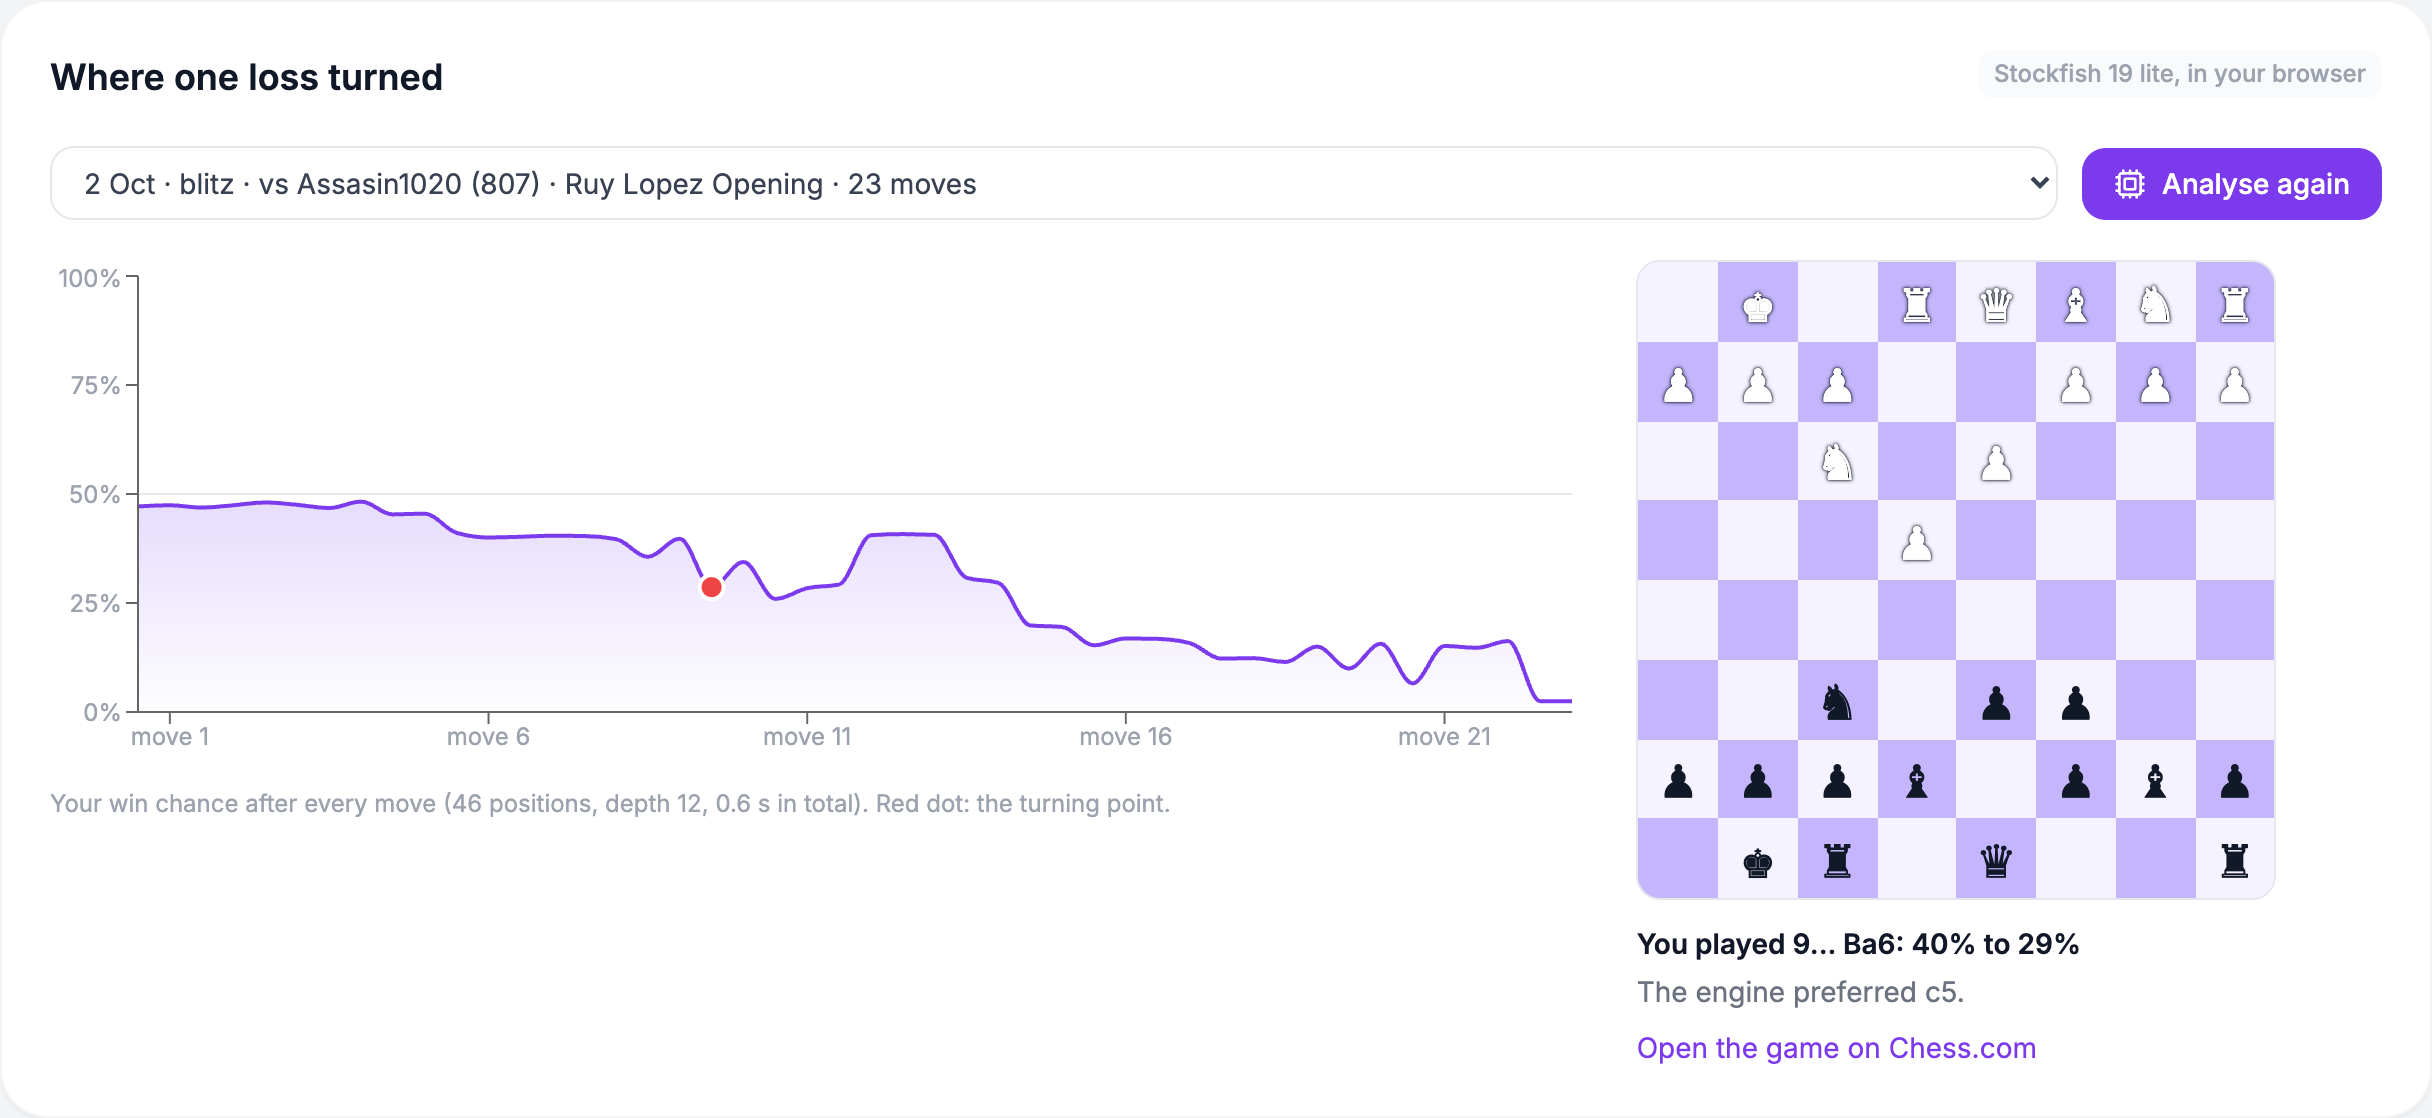
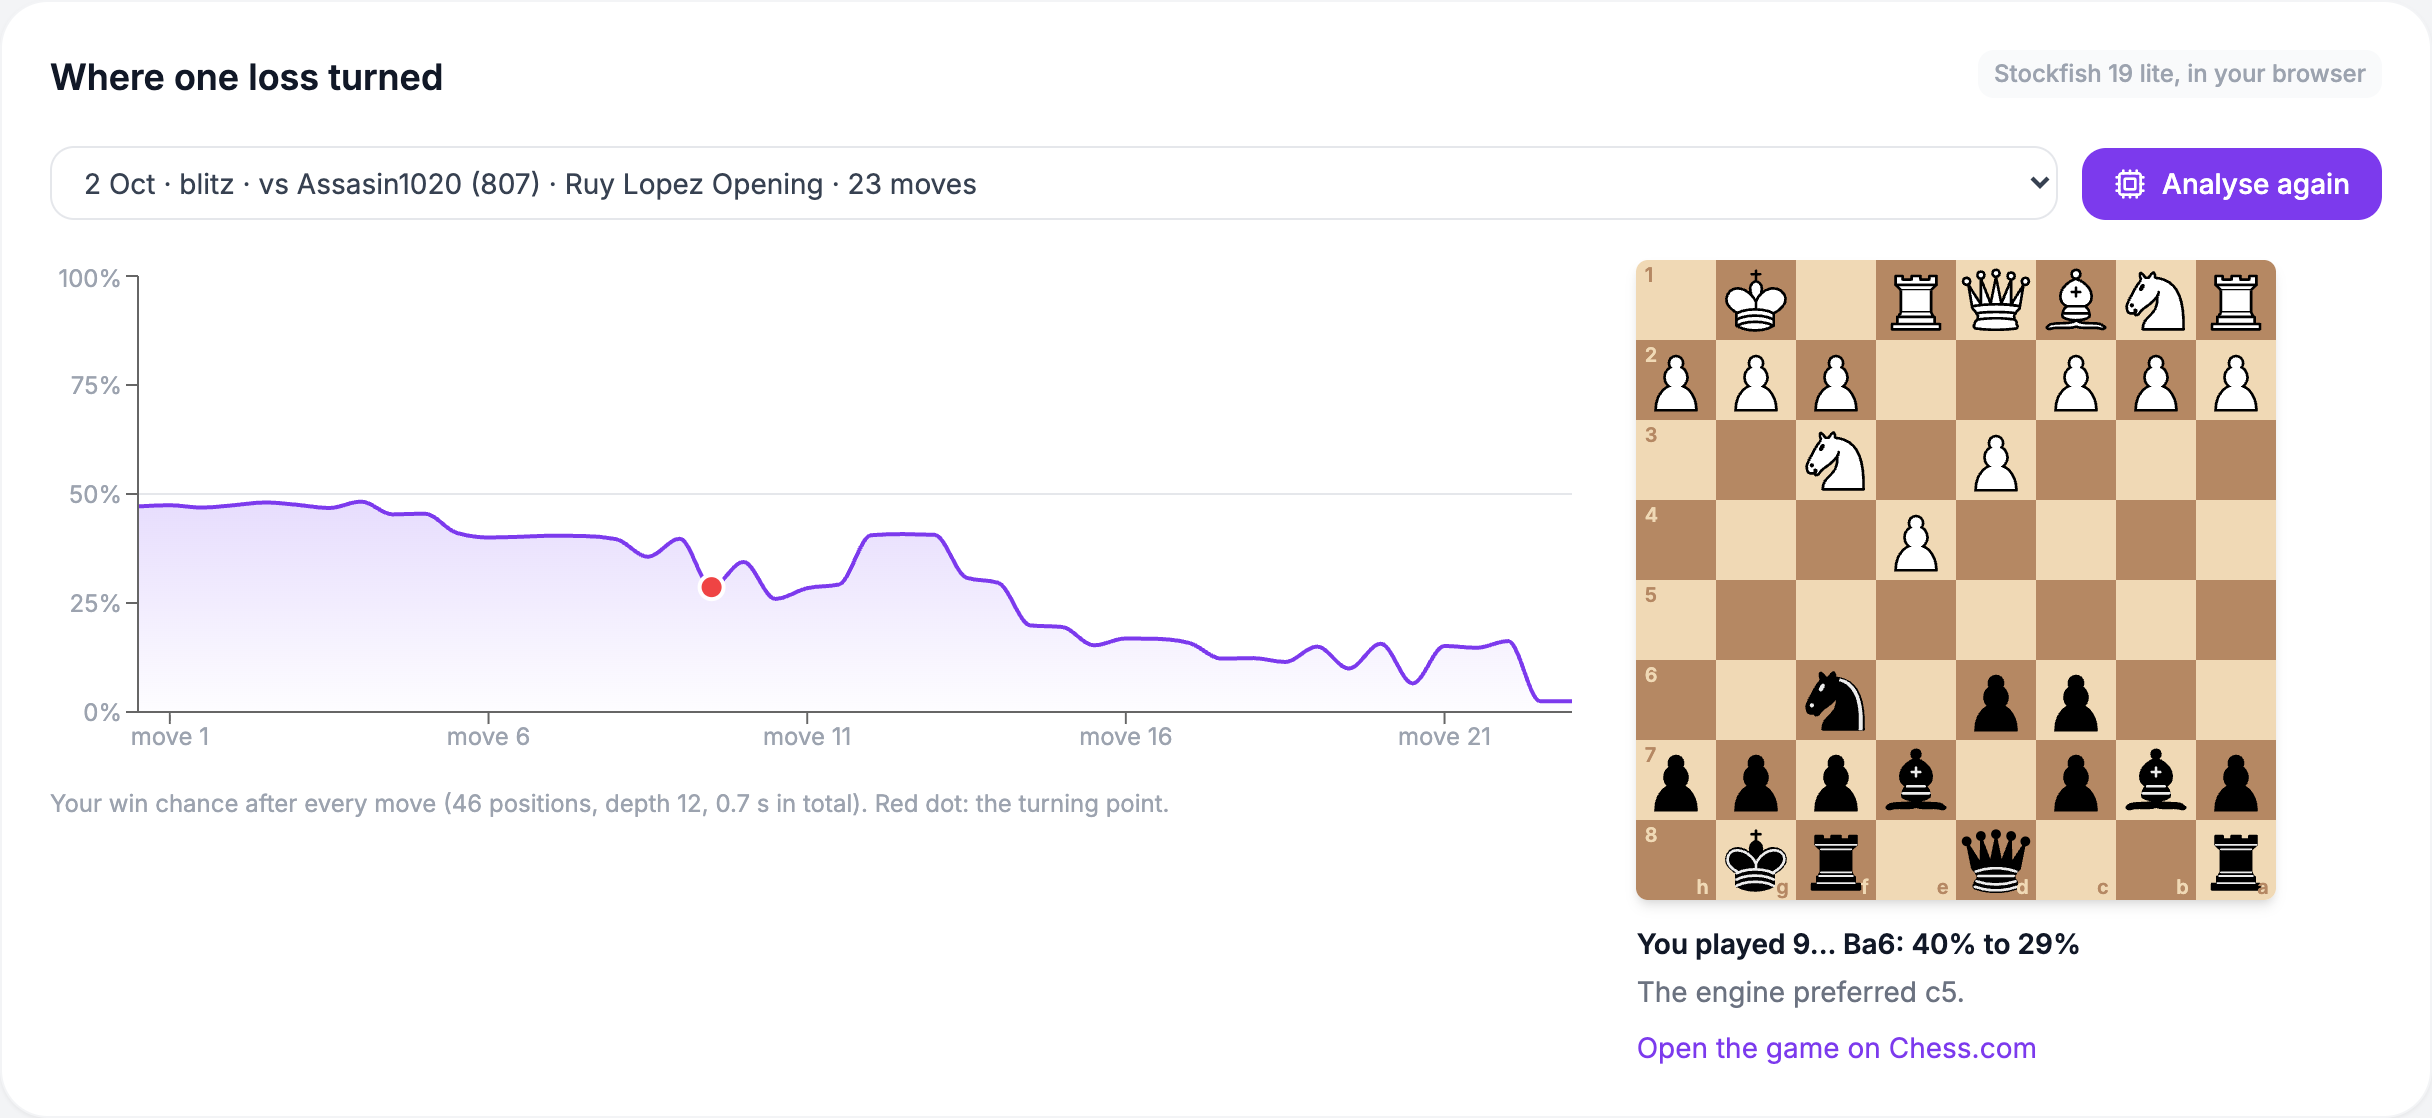
Use the classic cburnett piece set on a wood board for the turning point

Changed region(s): [[0.6562, 0.2129, 0.9375, 0.8211], [0.3125, 0.6995, 0.4688, 0.7299]]

diff --git a/components/why/MiniBoard.tsx b/components/why/MiniBoard.tsx
@@ -1,8 +1,12 @@
 import React from 'react';
 
-// Filled glyphs for both sides, coloured by CSS. \uFE0E stops the pawn rendering as an emoji.
-const FILLED: Record<string, string> = { k: '♚', q: '♛', r: '♜', b: '♝', n: '♞', p: '♟' };
-const glyph = (p: string) => (p ? `${FILLED[p.toLowerCase()]}\uFE0E` : '');
+// Classic wood board colours, with the cburnett piece set (Colin M.L. Burnett, GPLv2+) from public/pieces.
+const LIGHT = '#f0d9b5';
+const DARK = '#b58863';
+const FILES = ['a', 'b', 'c', 'd', 'e', 'f', 'g', 'h'];
+
+const pieceSrc = (p: string) =>
+  `${import.meta.env.BASE_URL}pieces/cburnett/${p === p.toUpperCase() ? 'w' : 'b'}${p.toUpperCase()}.svg`;
 
 /** A dependency-free board from a FEN, seen from the player's side. */
 const MiniBoard: React.FC<{ fen: string; flipped?: boolean }> = ({ fen, flipped }) => {
@@ -10,18 +14,29 @@ const MiniBoard: React.FC<{ fen: string; flipped?: boolean }> = ({ fen, flipped 
     row.split('').flatMap((ch) => (/\d/.test(ch) ? Array(Number(ch)).fill('') : [ch])),
   );
   const ranks = flipped ? [...rows].reverse().map((r) => [...r].reverse()) : rows;
+  const files = flipped ? [...FILES].reverse() : FILES;
   return (
-    <div className="grid grid-cols-8 grid-rows-8 w-full max-w-[320px] aspect-square rounded-xl overflow-hidden border border-gray-200">
+    <div className="grid grid-cols-8 grid-rows-8 w-full max-w-[320px] aspect-square rounded-md overflow-hidden shadow-md">
       {ranks.flatMap((row, r) =>
-        row.map((piece, c) => (
-          <div
-            key={`${r}-${c}`}
-            className={`flex items-center justify-center text-[28px] leading-none select-none ${(r + c) % 2 ? 'bg-violet-300' : 'bg-violet-50'}`}
-            style={{ color: piece && piece === piece.toUpperCase() ? '#fff' : '#111827', textShadow: piece && piece === piece.toUpperCase() ? '0 0 2px #111827, 0 0 1px #111827' : 'none' }}
-          >
-            {glyph(piece)}
-          </div>
-        )),
+        row.map((piece, c) => {
+          const dark = (r + c) % 2 === 1;
+          const rank = flipped ? r + 1 : 8 - r;
+          return (
+            <div key={`${r}-${c}`} className="relative" style={{ background: dark ? DARK : LIGHT }}>
+              {piece && <img src={pieceSrc(piece)} alt={piece} className="absolute inset-0 w-full h-full select-none" draggable={false} />}
+              {c === 0 && (
+                <span className="absolute top-0.5 left-1 text-[10px] font-semibold leading-none" style={{ color: dark ? LIGHT : DARK }}>
+                  {rank}
+                </span>
+              )}
+              {r === 7 && (
+                <span className="absolute bottom-0.5 right-1 text-[10px] font-semibold leading-none" style={{ color: dark ? LIGHT : DARK }}>
+                  {files[c]}
+                </span>
+              )}
+            </div>
+          );
+        }),
       )}
     </div>
   );

diff --git a/README.md b/README.md
@@ -71,7 +71,7 @@ React 19, TypeScript, Vite, Recharts, Lucide icons, Tailwind (CDN), chess.js, ht
 
 GPL-3.0-or-later. See [LICENSE](LICENSE).
 
-The app ships [Stockfish.js](https://github.com/nmrugg/stockfish.js) (Stockfish 19, lite single-threaded build) by Nathan Rugg and Chess.com, LLC, which is licensed under GPL-3.0. Stockfish itself is by [the Stockfish team](https://github.com/official-stockfish/Stockfish). Because the engine is distributed with the app, the app is licensed under the GPL too. chess.js is BSD-2-Clause.
+The app ships [Stockfish.js](https://github.com/nmrugg/stockfish.js) (Stockfish 19, lite single-threaded build) by Nathan Rugg and Chess.com, LLC, which is licensed under GPL-3.0. Stockfish itself is by [the Stockfish team](https://github.com/official-stockfish/Stockfish). Because the engine is distributed with the app, the app is licensed under the GPL too. chess.js is BSD-2-Clause. The board uses the cburnett piece set by [Colin M.L. Burnett](https://en.wikipedia.org/wiki/User:Cburnett) (GPLv2+, via [Lichess](https://github.com/lichess-org/lila)), in `public/pieces/cburnett/`.
 
 Game data comes from the [Chess.com Published-Data API](https://www.chess.com/news/view/published-data-api).
 
